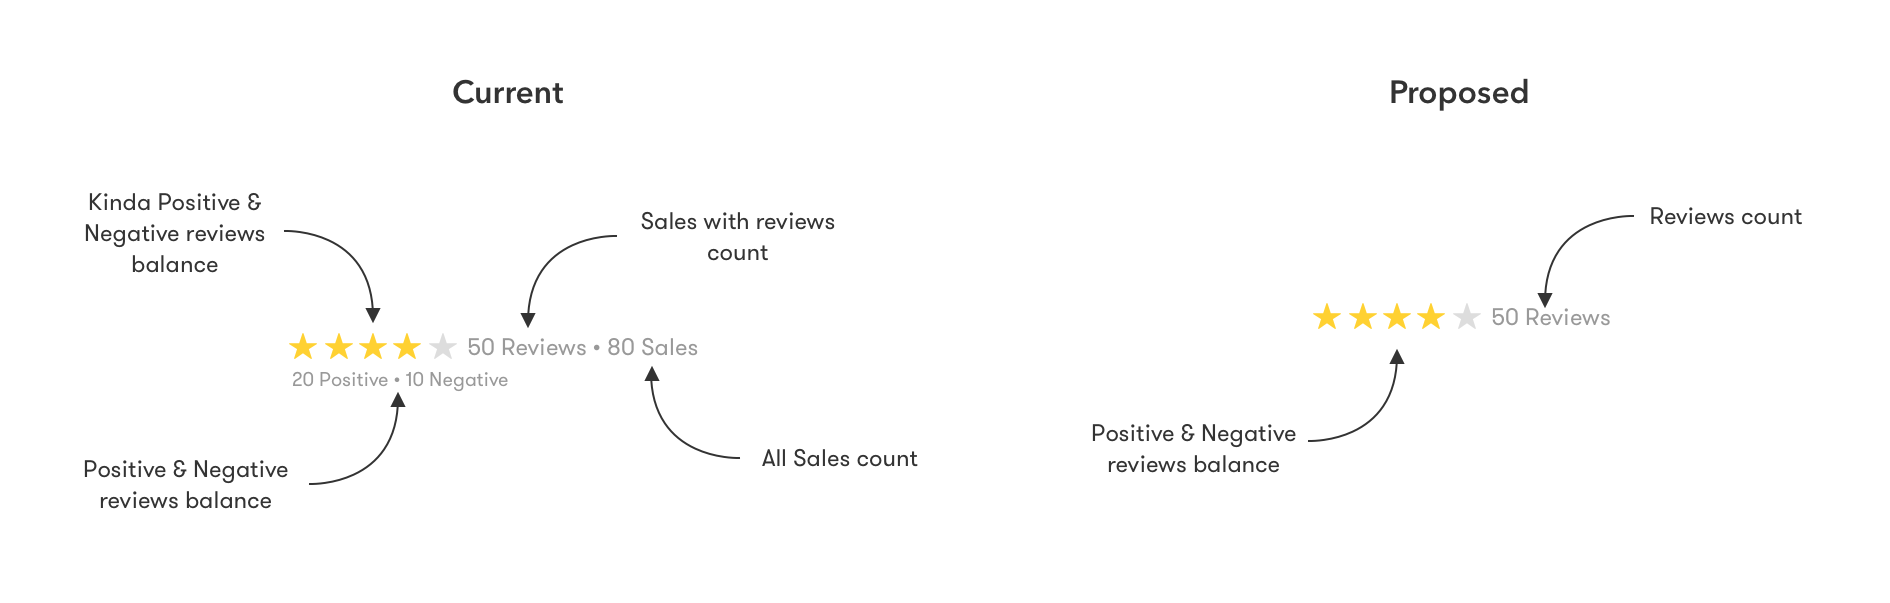
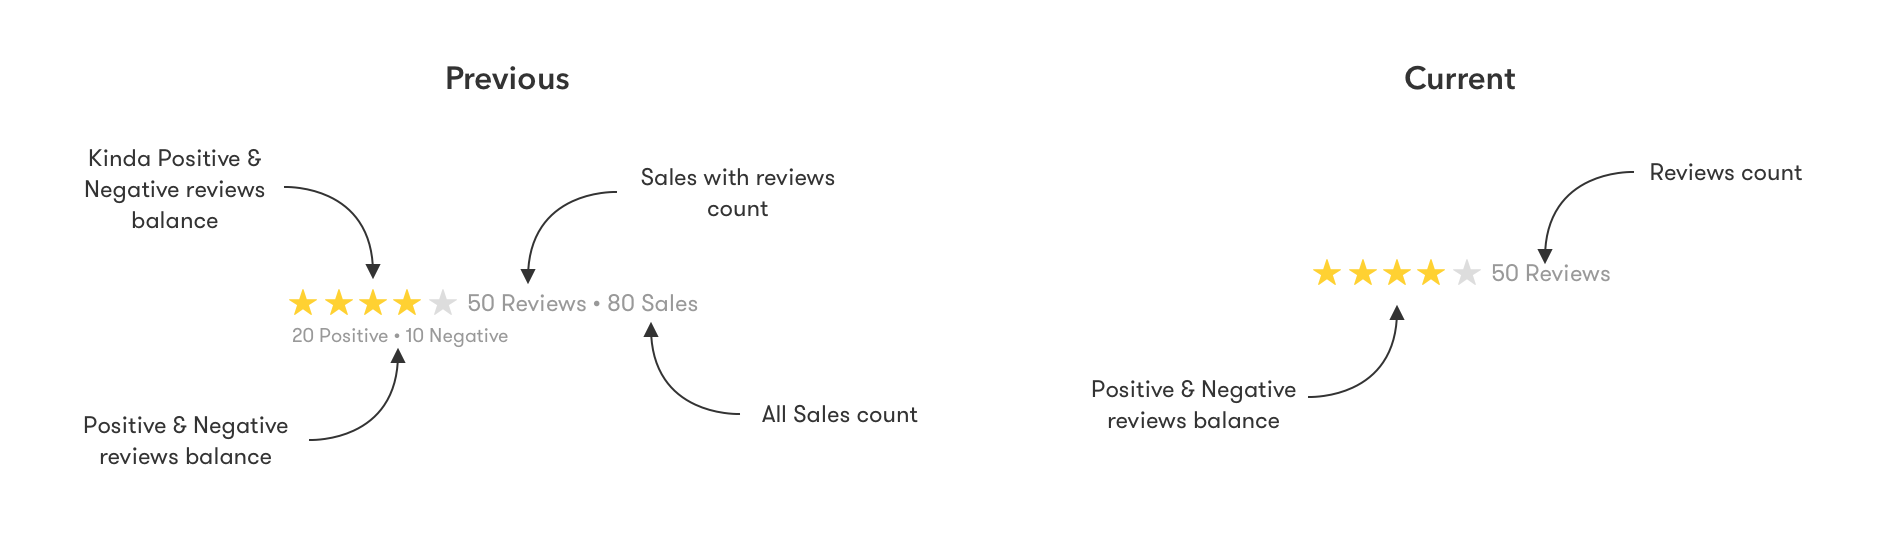
Add more images to Vinted case study

diff --git a/vinted.html b/vinted.html
@@ -37,41 +37,91 @@
 
       <section>
         <h2 id="safety_trust">Safety & Trust</h2>
-          <p>Safety and trust are one of the key elements for successful community-driven marketplace. We believed that by improving these aspects we will be able to bring more users to our platform and, more importantly, help them sell their unused clothes.</p>
+          <p>Safety and trust are one of the key elements for the successful community-driven marketplace. We believed that by improving these aspects we will be able to bring more users to our platform and, more importantly, help them sell their unused clothes.</p>
 
-          <p>As I’ve started doing research, I understood, that fraud and cheat cases at Vinted were truly rare — mostly resolved by other projects I’ve worked on (3D verification, improvements in feed, etc). But, due to complicated representation of user rating and feedback, it wasn’t that obvious.</p>
+          <p>As I’ve started doing research, I understood, that fraud and cheating cases at Vinted were truly rare — mostly resolved by other projects I’ve worked on (3D verification, improvements in feed, etc). But, due to the complicated representation of user rating and feedback, it wasn’t that obvious.</p>
 
           <figure class="figure--medium">
             <a href="#rating_improvements">
-              <img class="thumb image--medium" src="images/vinted/rating_improvements.png" alt="Simplification of member rating display."/>
+              <img class="thumbnail image--medium" src="images/vinted/rating_improvements.png" alt="Simplification of member rating display."/>
             </a>
           
             <figcaption>Simplification of member rating display.</figcaption>
           </figure>
 
-          <p>So I’ve changed how ratings are being calculated and displayed:</p>
+          <p>So I’ve had to change how ratings are being calculated and displayed:</p>
 
           <ul>
-            <li><strong>Removed sales count</strong> as sales without reviews were not truly valuable.</li>
-            <li><strong>Removed legacy positive/negative feedbacks count</strong> as it only confused our users.</li>
-            <li><strong>Updated rating calculation rules</strong> for more precise reflection of members feedbacks.</li>
+            <li><strong>Remove sales count</strong> as sales without reviews were not truly valuable.</li>
+            <li><strong>Remove legacy positive/negative feedbacks count</strong> as it only confused our users.</li>
+            <li><strong>Update rating calculation rules</strong> for more precise reflection of members feedbacks.</li>
           </ul>
 
-          <p>I’ve also had to updated feedback leaving flow itself — due to legacy feedback system, users were leaving positive/neutral/negative feedback, which in the process was converted to five-star rating. Also, they didn’t needed to make a sale in order to get a review — community forums and clothes sales feedbacks were the same.</p>
+          <p>I’ve also had to update feedback leaving flow itself — due to the legacy feedback system, users were leaving positive/neutral/negative feedbacks, which in the process were converted to a five-star rating. Also, they didn’t need to make a sale in order to get a feedback — community forums and clothes sales feedbacks were the same.</p>
 
-          <p>New feedback flow contained same five-star rating with clear names. Also, a possibility to sort feedbacks by most recent or most helpful. I've also improved transaction flow: added notification reminders about feedbacks that needs to be left, added feedback timer, which would leave automatic feedback once expired, and decided to display feedbacks in profile only when both sides (buyer and seller) left them.</p>
+          <figure>
+            <a href="#feedback_leaving_flow">
+              <img class="thumbnail" src="images/vinted/feedback_leaving_flow.png" alt="Updated flow for feedback leaving on Android."/>
+            </a>
+          
+            <figcaption>Updated flow for feedback leaving on Android.</figcaption>
+          </figure>
 
-          <p>I was aware, that feedback changes will cause a major discussion in our community, so we had to prepare extensive communication as well.</p>
+          <span class="wrapper wrapper--medium">
+            <figure>
+              <a href="#feedback_in_conversation">
+                <img class="thumbnail" src="images/vinted/feedback_in_conversation.png" alt="Reminders to leave feedback in conversation with a seller/buyer."/>
+              </a>
+            
+              <figcaption>Reminders to leave feedback in conversation with a seller/buyer.</figcaption>
+            </figure>
 
-          <p>Feedback display improvements were major success for our top members with a lot of feedbacks, but not for our new members with no feedback at all. Having that in mind, I've decided to rethink how </p>
+            <p>New feedback flow contained same five-star rating with clear names. Also, a possibility to sort feedbacks by most recent or most helpful. I've also improved conversation flow: added notification reminders about feedbacks that need to be left, added feedback timer, which would leave automatic feedback once expired, and decided to display feedbacks in profile only when both sides (buyer and seller) left them.</p>
+
+            <p>Being aware that feedback changes will cause a major discussion in our community, we had to prepare an extensive communication as well.</p>
+          </span>
+
+          <p>Feedback display improvements were a major success for our top users with a lot of feedbacks, but not for our new users with no feedback at all. Having that in mind, I've decided to rethink how we present user profile and add more trust identifiers.</p>
+
+          <span class="wrapper wrapper--medium">
+            <figure>
+              <a href="#id_verification_flow">
+                <img class="thumbnail" src="images/vinted/id_verification_flow.png" alt="Newly added ID Verification flow in profile settings." />
+              </a>
+            
+              <figcaption>Newly added ID Verification flow in profile settings.</figcaption>
+            </figure>
+
+            <p>By adding additional verification layers (ID and Bank verification) to already existing ones, users will be able to improve their profile quality and, in consequence, look more trustful without making a huge number of sales.</p>
+
+            <p>...</p>
+          </span>
+
+          <span class="wrapper wrapper--medium">
+            <figure>
+              <a href="#profile_badges">
+                <img class="thumbnail" src="images/vinted/profile_badges.png" alt="Badges system for updated member profile." />
+              </a>
+            
+              <figcaption>Badges system for updated member profile.</figcaption>
+            </figure>
+
+            <p>...</p>
+          </span>          
+
+          <figure>
+            PROFILE EXPLORATION?
+          </figure>
 
           <figure class="figure--medium">
             <a href="#profile_examples">
-              <img class="thumb image--medium" src="images/vinted/profile_examples.png" alt="Final version of new Vinted profile with feedback rating and verifications."/>
+              <img class="thumbnail image--medium" src="images/vinted/profile_examples.png" alt="Final version of new Vinted profile with feedback rating and verifications."/>
             </a>
           
             <figcaption>Final version of new Vinted profile with feedback rating and verifications.</figcaption>
           </figure>
+
+          <p>We've rolled out the updated profile with new feedback and verifications across all our countries, and saw immediate improvements in items sold per user, which was a good indication, that we've done an amazing job!</p>
       </section>
 
       <section>
@@ -81,24 +131,18 @@
 
       <section>
         <h2 id="design_system">Design System</h2>
-          <p>Product designer at Vinted designs for three platforms — Web, iOS, and Android. So, designing UI would always take much more
-          time than problem research or solution exploration.</p>
+          <p>Product designer at Vinted designs for three platforms — Web, iOS, and Android. So, designing UI would always take much more time than problem research or solution exploration.</p>
 
-          <p>Once I’ve started leading design team, I set myself a goal — to fix our design process. We’ve started having weekly user
-          exposure hours, built guild roadmap, defined design vision, and principles, but having experience in both design and development,
-          I’ve also started thinking how to improve design-to-development process.</p>
+          <p>Once I’ve started leading design team, I set myself a goal — to fix our design process. We’ve started having weekly user exposure hours, built guild roadmap, defined design vision, and principles, but having experience in both design and development, I’ve also started thinking how to improve design-to-development process.</p>
 
           <blockquote>“Design system goal is not a consistency, but improvement in design-to-development processes. Consistency is only a consequence of good processes.”</blockquote>
 
-          <p>At the same time, we’ve also started working on new brand execution, which meant that redesign of both web and apps was inevitable.
-          So, I came to the conclusion, that having a design system independent from a platform, but tightly maintained by designers
-          and developers, would improve these processes and make the redesign much faster. Following argument was the main selling
-          point for our management team.</p>
+          <p>At the same time, we’ve also started working on new brand execution, which meant that redesign of both web and apps was inevitable. So, I came to the conclusion, that having a design system independent from a platform, but tightly maintained by designers and developers, would improve these processes and make the redesign much faster. Following argument was the main selling point for our management team.</p>
 
           <span class="wrapper wrapper--big">
             <figure>
               <a href="#design_system_landing">
-                <img class="thumb" src="images/vinted/design_system_landing.png" alt="Vinted Design System — ui.vinted.net" />
+                <img class="thumbnail" src="images/vinted/design_system_landing.png" alt="Vinted Design System — ui.vinted.net" />
               </a>
 
               <figcaption>
@@ -106,10 +150,7 @@
               </figcaption>
             </figure>
 
-            <p>I’ve started with an audit of user interface across all platforms, as it allowed me to find repeating patterns and create
-            a list of components with possible variations. I’ve also created a landing page — a single source of the truth, where our
-            designers and developers could discuss, review and maintain our design system components while focusing on three guiding
-            principles:</p>
+            <p>I’ve started with an audit of user interface across all platforms, as it allowed me to find repeating patterns and create a list of components with possible variations. I’ve also created a landing page — a single source of the truth, where our designers and developers could discuss, review and maintain our design system components while focusing on three guiding principles:</p>
 
             <ul>
               <li>Constraints should be shared across all platforms.</li>
@@ -122,15 +163,13 @@
 
           <figure>
             <a href="#cell_component_variations">
-              <img class="thumb" src="images/vinted/cell_component_variations.png" alt="Redesigned cell component variations across all Vinted products." />
+              <img class="thumbnail" src="images/vinted/cell_component_variations.png" alt="Redesigned cell component variations across all Vinted products." />
             </a>
           
             <figcaption>Redesigned cell component variations across all Vinted products.</figcaption>
           </figure>
 
-          <p>It took me nearly two months and a help from several designers to finish it, but results were amazing — designers started
-          spending less time drawing pixels, which led to more focus on user experience and developers started to speak the same language,
-          which led to more focus on quality and consistency.</p>
+          <p>It took me nearly two months and a help from several designers to finish it, but results were amazing — designers started spending less time drawing pixels, which led to more focus on user experience and developers started to speak the same language, which led to more focus on quality and consistency.</p>
       </section>
 
       <section>
@@ -139,18 +178,15 @@
 
           <p>At first, I was skeptical, as creating and maintaining good experience in a marketplace with user-generated content is already difficult, but adding ads meant, that we need to focus on advertisers content as well. However, I’ve accepted the challenge, because I’ve seen good examples such as Facebook, Instagram, and Twitter.</p>
 
-          <p>I knew, that for the first iteration we won’t put much focus on the personalization of the ads — we needed to prove that
-          integration of third-party advertisement providers actually works. So, my mission was pretty clear — find the best ways of
-          ads integration into the content, which wouldn’t decrease our core experience metrics and, at the same time, would increase
-          our revenue.</p>
+          <p>I knew, that for the first iteration we won’t put much focus on the personalization of the ads — we needed to prove that integration of third-party advertisement providers actually works. So, my mission was pretty clear — find the best ways of ads integration into the content, which wouldn’t decrease our core experience metrics and, at the same time, would increase our revenue.</p>
 
-          <p>After discovery and exploration phase, I came with the conclusion, that the most natural form for our mobile ads would be
-          item card — element, which we use to show sellers items, as it would blend into content across feed, catalog, and member
-          profile. On top of that, we could have an additional section for ads in our personalized editorial screen.</p>
+          <figure>WIREFRAMES</figure>
+
+          <p>After discovery and exploration phase, I came with the conclusion, that the most natural form for our mobile ads would be item card — element, which we use to show sellers items, as it would blend into content across feed, catalog, and member profile. On top of that, we could have an additional section for ads in our personalized editorial screen.</p>
 
           <figure>
             <a href="#mobile_ads_variations">
-              <img class="thumb" src="images/vinted/mobile_ads_variations.png" alt="Exploration of types and formats for mobile ads."/>
+              <img class="thumbnail" src="images/vinted/mobile_ads_variations.png" alt="Exploration of types and formats for mobile ads."/>
             </a>
           
             <figcaption>Exploration of types and formats for mobile ads.</figcaption>
@@ -161,7 +197,7 @@
 
           <figure class="figure--medium">
             <a href="#mobile_ads_thumb">
-              <img class="thumb image--medium" src="images/vinted/mobile_ads_thumb.png" alt="Single and multi-column ads in Vinted apps." />
+              <img class="thumbnail image--medium" src="images/vinted/mobile_ads_thumb.png" alt="Single and multi-column ads in Vinted apps." />
             </a>
             
             <figcaption>Single and multi-column ads in Vinted apps.</figcaption>
@@ -190,15 +226,31 @@
         </a>
 
         <a href="#_" class="lightbox" id="cell_component_variations">
-          <img class="thumb" src="images/vinted/cell_component_variations.png" alt="Redesigned cell component variations across all Vinted products." />
+          <img src="images/vinted/cell_component_variations.png" alt="Redesigned cell component variations across all Vinted products." />
         </a>
 
         <a href="#_" class="lightbox" id="rating_improvements">
-          <img class="thumb" src="images/vinted/rating_improvements.png" alt="Simplification of member rating display."/>
+          <img src="images/vinted/rating_improvements.png" alt="Simplification of member rating display."/>
         </a>
 
         <a href="#_" class="lightbox" id="profile_examples">
-          <img class="thumb" src="images/vinted/profile_examples.png" alt="Final version of new Vinted profile with feedback rating and verifications."/>
+          <img src="images/vinted/profile_examples.png" alt="Final version of new Vinted profile with feedback rating and verifications."/>
+        </a>
+
+        <a href="#_" class="lightbox" id="id_verification_flow">
+          <img src="images/vinted/id_verification_flow.png" alt="Newly added ID Verification flow in profile settings." />
+        </a>
+
+        <a href="#_" class="lightbox" id="feedback_leaving_flow">
+          <img src="images/vinted/feedback_leaving_flow.png" alt="Updated flow for feedback leaving on Android."/>
+        </a>
+
+        <a href="#_" class="lightbox" id="feedback_in_conversation">
+          <img src="images/vinted/feedback_in_conversation.png" alt="Reminders to leave feedback in conversation with a seller/buyer."/>
+        </a>
+
+        <a href="#_" class="lightbox" id="profile_badges">
+          <img src="images/vinted/profile_badges.png" alt="Badges system for updated member profile." />
         </a>
       </div>
     </article>

diff --git a/style.css b/style.css
@@ -226,7 +226,7 @@ figure a .thumbnail {
 }
 
 figure a:hover .thumbnail {
-  opacity: 0.48;
+  opacity: 0.72;
   -webkit-transition: opacity 0.25s ease-in-out;
      -moz-transition: opacity 0.25s ease-in-out;
       -ms-transition: opacity 0.25s ease-in-out;
